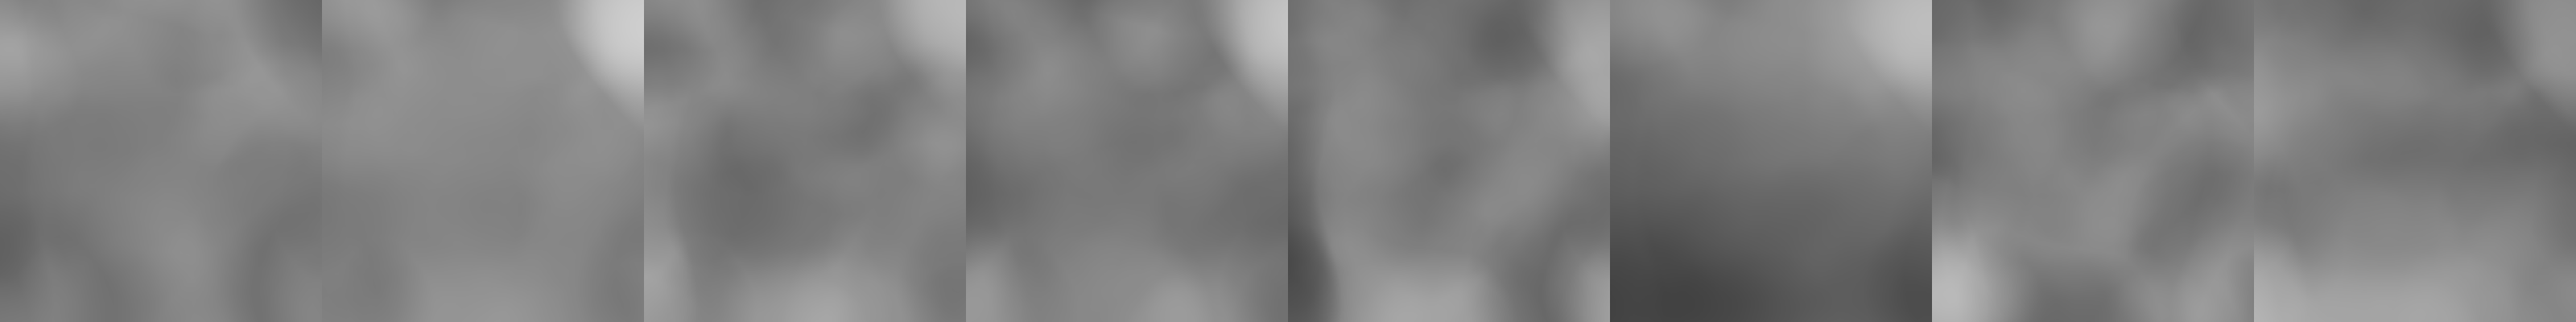
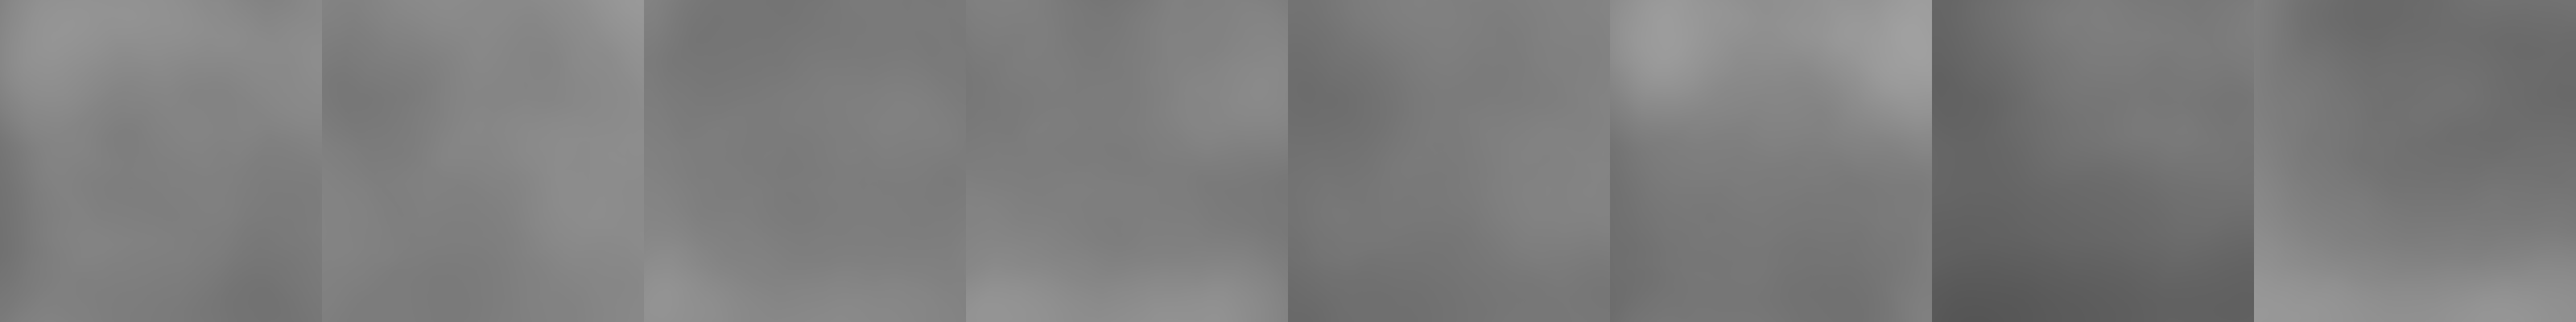
Change mpi dataset for mobiel viewer.

diff --git a/mpi/tiger-front/mobile/config.js b/mpi/tiger-front/mobile/config.js
@@ -3,10 +3,10 @@
   const h = 480;
   const scale = 1;
   const nSubPlanes = 1;
-  const layers = 12;
-  const sublayers = 6;
+  const layers = 10;
+  const sublayers = 5;
 
-  const planes = [[1.3333333730697632,1.3939604456995573,1.4545875183293517,1.515214590959146,1.5758416635889403,1.6364687362187345,1.6970958088485288,1.757722881478323,1.8183499541081174,1.8789770267379116,1.9396040993677057,2.0002311719975,2.0608582446272945,2.121485317257089,2.182112389886883,2.242739462516677,2.3033665351464716,2.3639936077762655,2.42462068040606,2.4852477530358543,2.5458748256656483,2.606501898295443,2.667128970925237,2.7277560435550314,2.788383116184826,2.8490101888146198,2.909637261444414,2.9702643340742085,3.0308914067040025,3.0915184793337973,3.1521455519635913,3.2127726245933856,3.27339969722318,3.334026769852974,3.3946538424827684,3.4552809151125627,3.5159079877423567,3.576535060372151,3.6371621330019455,3.69778920563174,3.758416278261534,3.819043350891328,3.8796704235211226,3.940297496150917,4.000924568780711,4.061551641410505,4.1221787140403,4.1828057866700945,4.2434328592998884,4.304059931929682,4.364687004559476,4.42531407718927,4.485941149819065,4.54656822244886,4.607195295078654,4.667822367708448,4.728449440338242,4.789076512968037,4.849703585597831,4.910330658227625,4.970957730857419,5.031584803487213,5.092211876117008,5.152838948746802,5.213466021376597,5.274093094006391,5.334720166636185,5.39534723926598,5.4559743118957735,5.5166013845255675,5.577228457155362,5.637855529785156]];
+  const planes = [[1.3333333730697632,1.4211807640231386,1.5090281549765139,1.5968755459298893,1.6847229368832646,1.77257032783664,1.8604177187900155,1.9482651097433907,2.036112500696766,2.1239598916501414,2.211807282603517,2.2996546735568923,2.387502064510268,2.475349455463643,2.5631968464170183,2.6510442373703933,2.7388916283237688,2.826739019277144,2.9145864102305197,3.002433801183895,3.0902811921372706,3.178128583090646,3.265975974044021,3.3538233649973965,3.441670755950772,3.5295181469041474,3.6173655378575225,3.705212928810898,3.7930603197642734,3.880907710717649,3.968755101671024,4.0566024926244,4.144449883577774,4.232297274531151,4.320144665484525,4.407992056437901,4.495839447391276,4.583686838344652,4.671534229298027,4.759381620251402,4.847229011204778,4.935076402158153,5.022923793111529,5.1107711840649035,5.198618575018279,5.286465965971654,5.37431335692503,5.462160747878405,5.550008138831781,5.637855529785156]];
 
   const f = 394.7192402385091 * scale;
   var names = [""];
